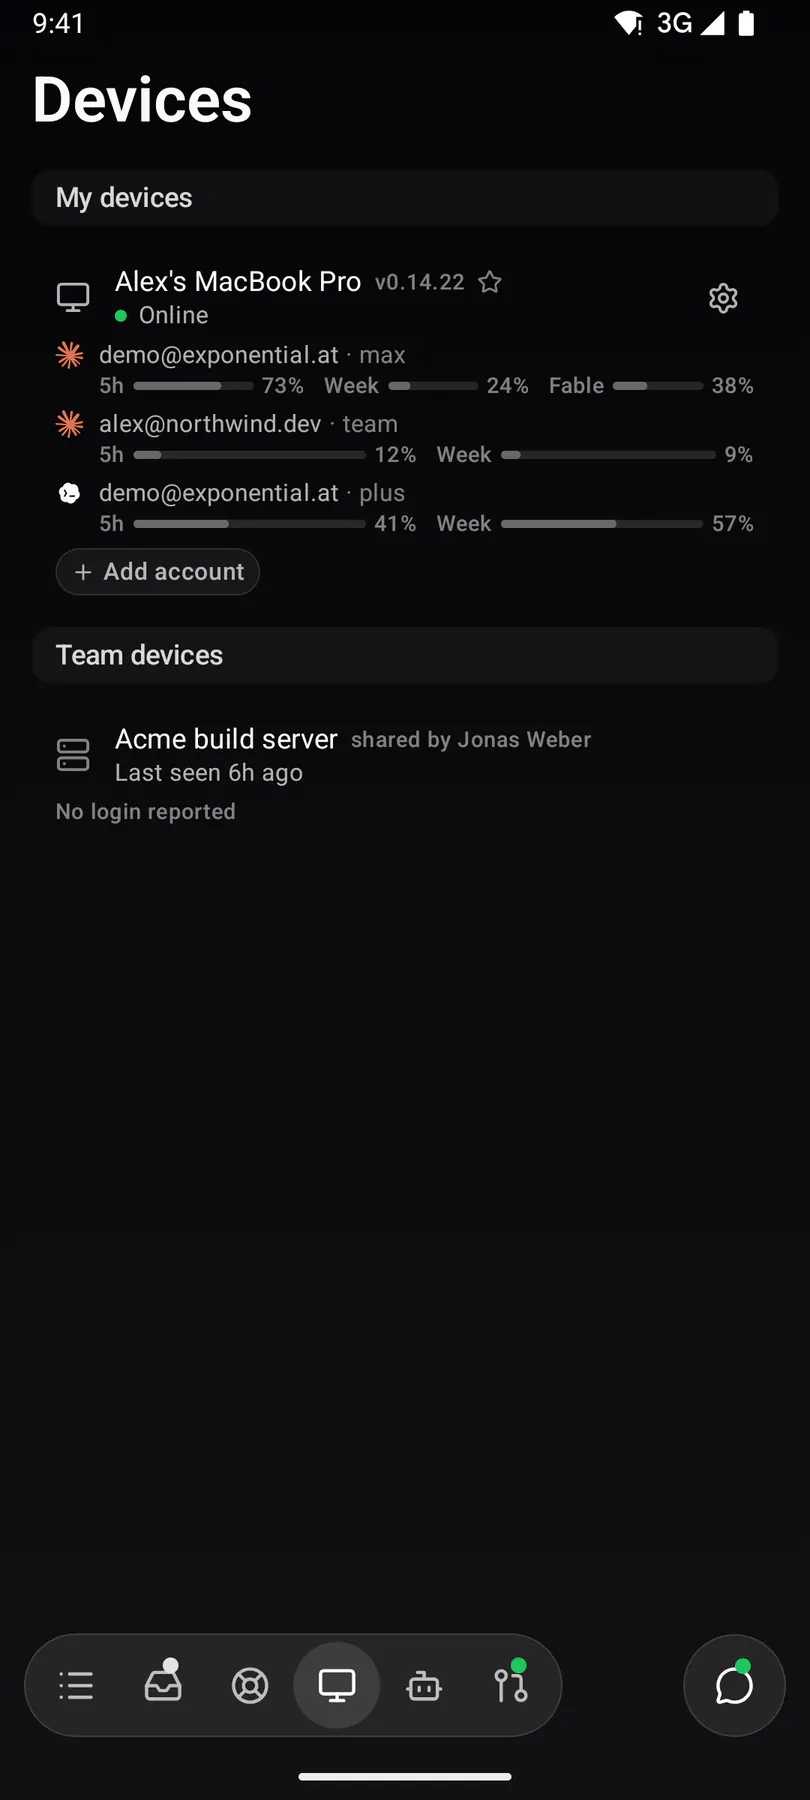
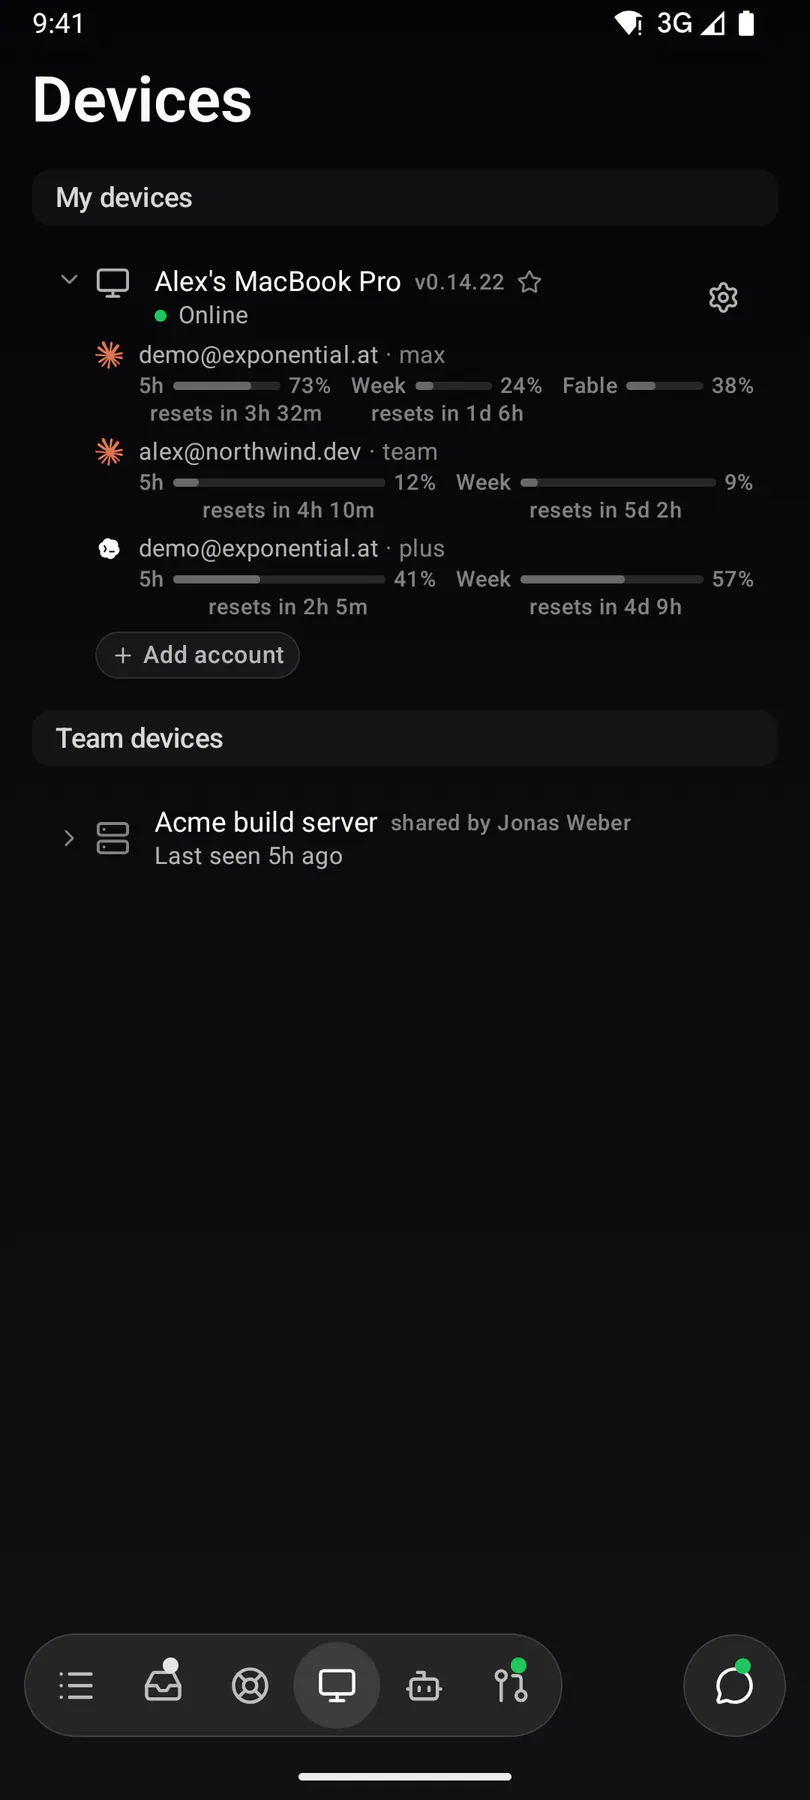
shots: refresh Devices and Steering on Android; styleguide test finds the gear in the unmerged tree

diff --git a/apps/android/app/src/androidTest/java/com/exponential/app/StyleguideScreenshotsTest.kt b/apps/android/app/src/androidTest/java/com/exponential/app/StyleguideScreenshotsTest.kt
@@ -411,7 +411,12 @@ class StyleguideScreenshotsTest {
         // EXP-909 follow-up: the gear IS the row's only control (the ⋯ menu
         // and its "Device settings" entry are gone ×4), and Update and Remove
         // are sections inside the sheet it opens.
-        composeRule.onAllNodes(hasTestTag("device-settings-button")).onFirst().performClick()
+        // EXP-944: the machine line is a tap target now, so it merges its
+        // descendants' semantics; the gear is looked up in the UNMERGED tree.
+        composeRule
+            .onAllNodes(hasTestTag("device-settings-button"), useUnmergedTree = true)
+            .onFirst()
+            .performClick()
         flow.waitFor(hasTestTag("device-settings-sheet"), NAV_TIMEOUT)
         flow.settle()
         flow.screenshot("sg_machine-settings")
